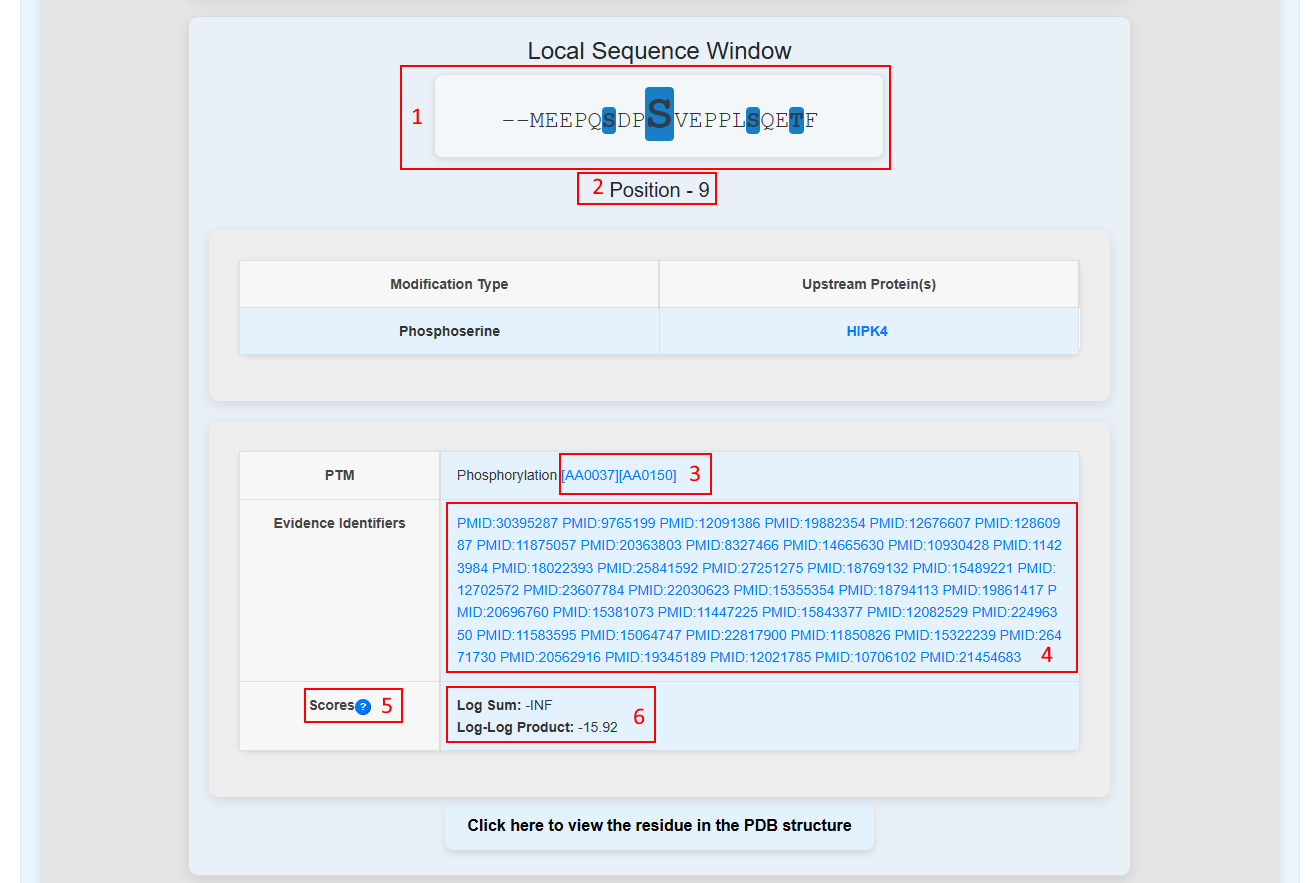
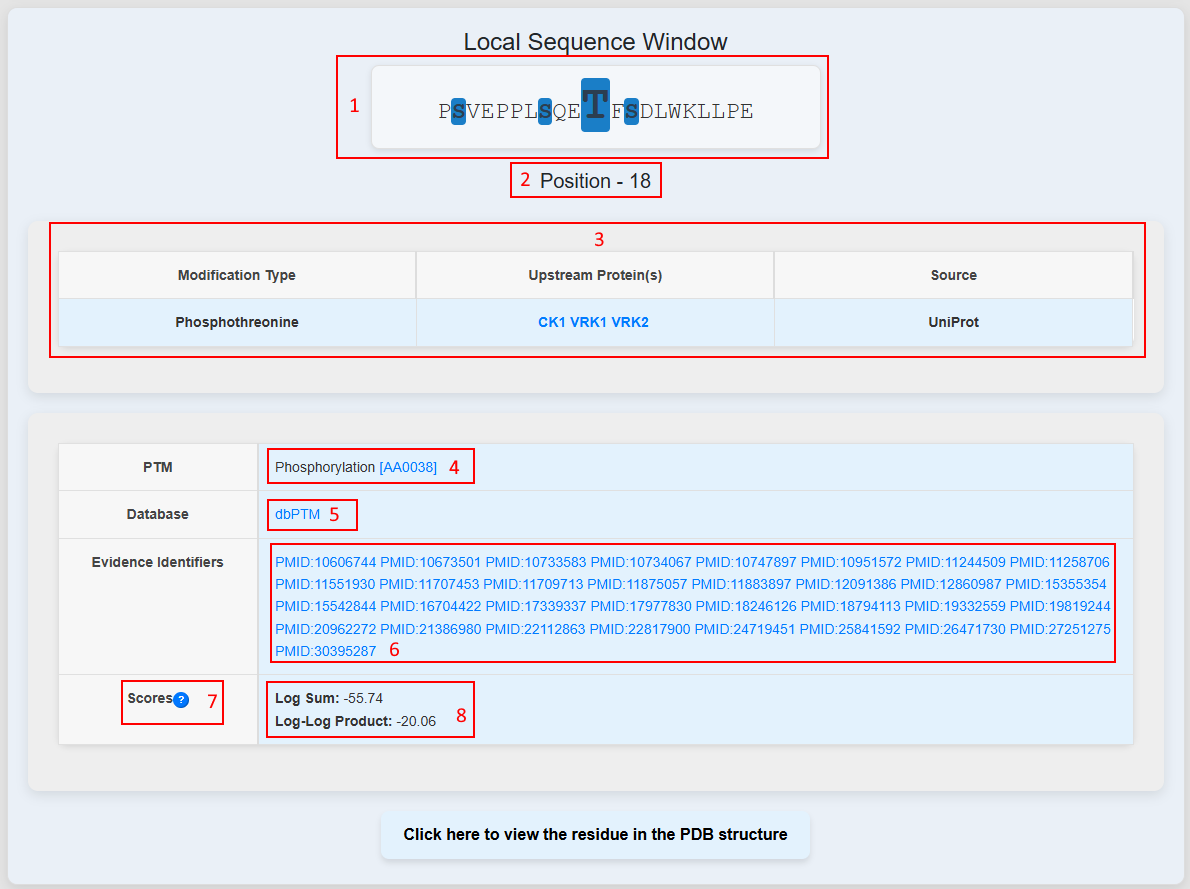
Updated document

diff --git a/server/templates/docs.html b/server/templates/docs.html
@@ -116,16 +116,21 @@
             <img src="/picture?picture=docs/search-6.png" style="width: 90%; border: 2px solid black;">
         </div>
         <p style="text-align: justify;">
-            A localised sequence of 21 amino acids is shown in [<a style="color: #ff0000">1</a>], with the position of the center amino acid
-            mentioned in [<a style="color: #ff0000">2</a>]. Below them is the dbPTM-annotated PTM information about the amino acid. If 
-            applicable, a RESID Database ID is also provided alongside the PTM type ([<a style="color: #ff0000">3</a>]). For the PTM,
-            evidence identifiers ([<a style="color: #ff0000">4</a>]) are provided as hyperlinks to their respective PubMed article.
-            The Log Sum and Log-Log Product scores (if applicable) are shown as well (see [<a style="color: #ff0000">6</a>]). If you want to
-            know how these scores are calculated, you can click on the question mark ([<a style="color: #ff0000">5</a>]) and it will lead you
-            to a new page explaining the calculation (see the <a onclick="scrollToSection('propensity-block')" style="color: #0051ff; cursor: pointer;">Propensity</a> page info below).
+            A localized sequence of 21 amino acids is shown in [<a style="color: #ff0000">1</a>], with the position of the center amino acid
+            mentioned in [<a style="color: #ff0000">2</a>].
         </p>
         <p style="text-align: justify;">
-            This is the base information gathered for the proteins. Extra information is also provided by scrolling down:
+            For the specific residue, you can see which upstream proteins cause the modification type,
+            along with its source in [<a style="color: #ff0000">3</a>].
+        </p>
+        <p style="text-align: justify;">
+            Below the modification table is the dbPTM-annotated information about the amino acid. If 
+            applicable, a RESID Database ID is also provided alongside the PTM type ([<a style="color: #ff0000">4</a>]).
+            The source database where this PTM is fetched can be see in [<a style="color: #ff0000">5</a>].
+            For the PTM, evidence identifiers ([<a style="color: #ff0000">6</a>]) are provided as hyperlinks to their respective PubMed article.
+            The Log Sum and Log-Log Product scores (if applicable) are shown as well (see [<a style="color: #ff0000">8</a>]). If you want to
+            know how these scores are calculated, you can click on the question mark ([<a style="color: #ff0000">7</a>]) and it will lead you
+            to a new page explaining the calculation (see the <a onclick="scrollToSection('propensity-block')" style="color: #0051ff; cursor: pointer;">Propensity</a> page info below).
         </p>
         <div style="margin: 0 auto; display: block; text-align: center;">
             <img src="/picture?picture=docs/search-7.png" style="width: 90%; border: 2px solid black;">
@@ -161,7 +166,7 @@
             You can interact with the structure by clicking on a residue, at which point it will display a label that contains the position of the residue in the sequence, the <strong>3-letter code for the residue</strong>,
             any and all <strong>PTMs that have been observed on the residue</strong>, the <strong>Solvent Accessible Surface Area</strong> (SASA) in square Angstroms (Å²) (calculated using the Shrake-Rupley
             algorithm), and the <strong>DSSP-calculated secondary structure of the PDB</strong> (the letter after DSSP denotes the simplified structure, while the letter inside the
-            parentheses denotes the detailed structure of the residue, if any), all observed in [<a style="color: #ff0000">5</a>].
+            parentheses denotes the detailed structure of the residue, if any), as shown in [<a style="color: #ff0000">5</a>].
         </p>
         <p>
             In the PDB renders above, <span style="color: rgb(0, 191, 0); font-weight: 700;">green</span> chains represent unstructured regions of coils,

diff --git a/server/templates/search.html b/server/templates/search.html
@@ -37,28 +37,9 @@
     </script>
 
     <div class="container-fluid mt-5" style="width: 90%; align-content: center;">
-        <!-- <div class="protein-statistics-container" style="background-color: #d8ecff; text-align: justify; text-align-last: center; max-width: 600px; margin: 0 auto; margin-bottom: -20px; padding-bottom: 20px;">
-            <p>Here, you can provide a protein's UniProt-based identifier and get to know in detail about the protein's general info, the sequence and PTMs on each residue, the predicted and actual secondary structures, and SASA values.</p>
-        </div>
-        <div class="alert alert-info text-center" style="width: 600px; margin-top: 40px;">
-            <i class="fa fa-search fa-small"></i>&nbsp;<strong><label>Search</label>&nbsp;(Enter Uniprot Identifier/Accession Number)</strong>
-            <div class="input-group position-relative">
-                <input class="form-control" id="form_value" type="text" placeholder="Enter UniProt ID or UniProt AC" style="text-align: center;">
-                <span class="form-group input-group-btn">
-                    <button type="button" id="form_submit" class="btn btn-primary" onclick="search()">Search</button>
-                </span>
-                <div id="suggestions" class="suggestions-box" style="display: none;"></div>
-            </div>
-            <i class="fa fa-search fa-small"></i><label style="padding: -20px; margin: 0;"><strong>Examples:</strong></label>
-            <a onclick="exampleSearch(this)" style="color: #1a0dab; text-decoration: underline; font-weight: normal; cursor: pointer;">P04637</a>, 
-            <a onclick="exampleSearch(this)" style="color: #1a0dab; text-decoration: underline; font-weight: normal; cursor: pointer;">G6PI_HUMAN</a>
-        </div> -->
 
         <div class="background-wrapper-2" id="search_field">
-            <!-- <div class="background-image"></div> -->
-        
             <div class="content-layer">
-                
                 <div class="input-group position-relative" style="margin: 15px auto 0 auto; width: 800px; font-size: 30px;">
                     <input class="form-control" style="font-size: 18px; text-align: left;" id="form_value" type="text" placeholder="Search for a protein by entering a Uniprot Identifier/Accession Number" style="text-align: center;">
                     <span class="form-group input-group-btn">
